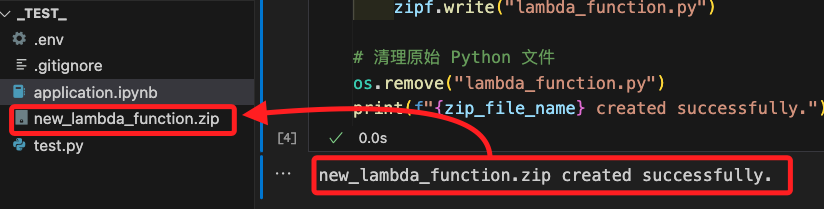
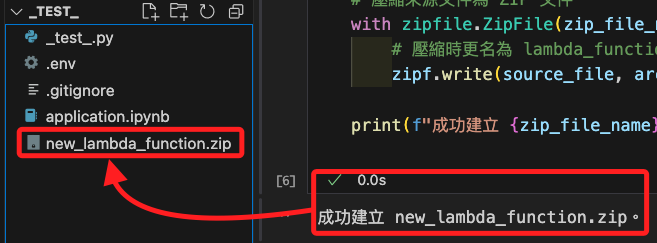
Commit on 2024-11-22 05:41:30

diff --git a/01_課程筆記/1121_B09/01_Lambda/02_監聽 S3.md b/01_課程筆記/1121_B09/01_Lambda/02_監聽 S3.md
@@ -186,12 +186,12 @@ _使用 SDK 逐步進行_
 1. 先透過終端機建立一個臨時腳本文件如 `_test_.py`。
 
     ```bash
-    touch _test.py_
+    touch _test_.py
     ```
 
 <br>
 
-2. 編輯腳本 `_test.py_`，其中指定兩個 Bucket 作為後續邏輯所需的來源與目的 Bucket，分別命名為 `mysource1121` 及 `mytarget1121`。
+2. 在 VSCode 中編輯腳本 `_test.py_` 貼上以下內容；主要是指定兩個 Bucket 作為後續邏輯所需的來源與目的 Bucket，分別命名為 `mysource1121` 及 `mytarget1121`。
 
     ```python
     import datetime
@@ -200,6 +200,7 @@ _使用 SDK 逐步進行_
 
     bucket_name = 'mytarget1121'
     s3 = boto3.resource('s3')
+
 
     def lambda_handler(event, context):
         request = event['Records'][0]['s3']['object']['key']
@@ -211,6 +212,7 @@ _使用 SDK 逐步進行_
         timestr = datetime.datetime.now(tz).strftime("%Y%m%d%H%M%S")
         file_name = timestr + '.txt'
         s3.meta.client.copy(copy_source, bucket_name, file_name)
+
 
     if __name__ == "__main__":
         lambda_handler()
@@ -221,49 +223,30 @@ _使用 SDK 逐步進行_
 2. 接著回到筆記本中，將以上代碼複製到變數 `lambda_code` 的區塊中，並生成壓縮檔 `new_lambda_function.zip`，這將作為指定的 `Lambda Function` 邏輯。
 
     ```python
-    import zipfile
-    import os
-
-    # Lambda Function 業務邏輯
-    lambda_code = """
-    import datetime
-    import dateutil.tz
-    import boto3
-
-    bucket_name = 'mytarget1121'
-    s3 = boto3.resource('s3')
-
-    def lambda_handler(event, context):
-        request = event['Records'][0]['s3']['object']['key']
-        copy_source = {
-            'Bucket': 'mysource1121',
-            'Key': request
-        }
-        tz = dateutil.tz.gettz('Asia/Taipei')
-        timestr = datetime.datetime.now(tz).strftime("%Y%m%d%H%M%S")
-        file_name = timestr + '.txt'
-        s3.meta.client.copy(copy_source, bucket_name, file_name)
-    """
-
-    # 寫入 Lambda 業務邏輯到 Python 文件
-    with open("lambda_function.py", "w") as f:
-        f.write(lambda_code)
-
-    # 壓縮為 ZIP 文件
+    # 來源 Python 文件名
+    source_file = "_test_.py"
+    # 壓縮後的 ZIP 文件名
     zip_file_name = "new_lambda_function.zip"
-    with zipfile.ZipFile(zip_file_name, "w") as zipf:
-        zipf.write("lambda_function.py")
 
-    # 清理原始 Python 文件
-    os.remove("lambda_function.py")
-    print(f"{zip_file_name} created successfully.")
+    # 檢查來源文件是否存在
+    if not os.path.exists(source_file):
+        raise FileNotFoundError(
+            f"{source_file} 不存在，請確認檔案存在當前目錄中。"
+        )
+
+    # 壓縮來源文件為 ZIP 文件
+    with zipfile.ZipFile(zip_file_name, "w") as zipf:
+        # 壓縮時更名為 lambda_function.py
+        zipf.write(source_file, arcname="lambda_function.py")
+
+    print(f"成功建立 {zip_file_name}。")
     ```
 
     ![](images/img_07.png)
 
 <br>
 
-3. 更新 Lambda Function。
+3. 更新 `Lambda Function`。
 
     ```python
     # 初始化 Lambda 客戶端
